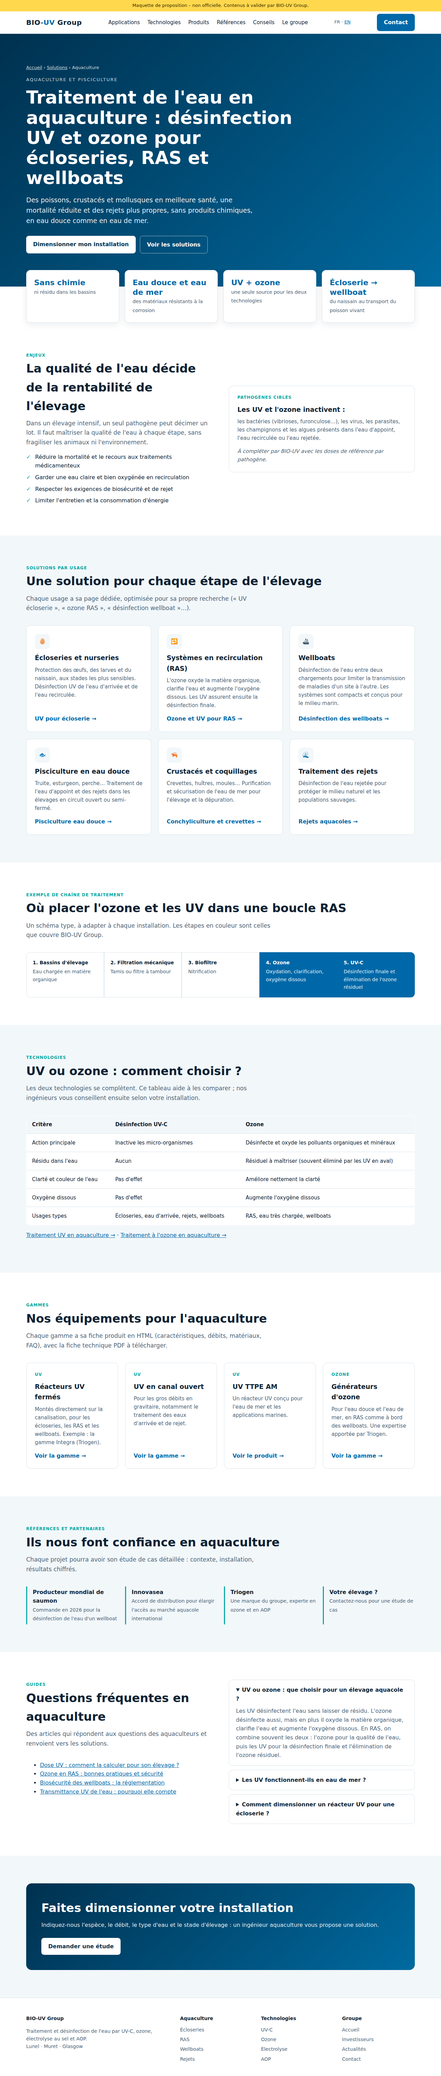
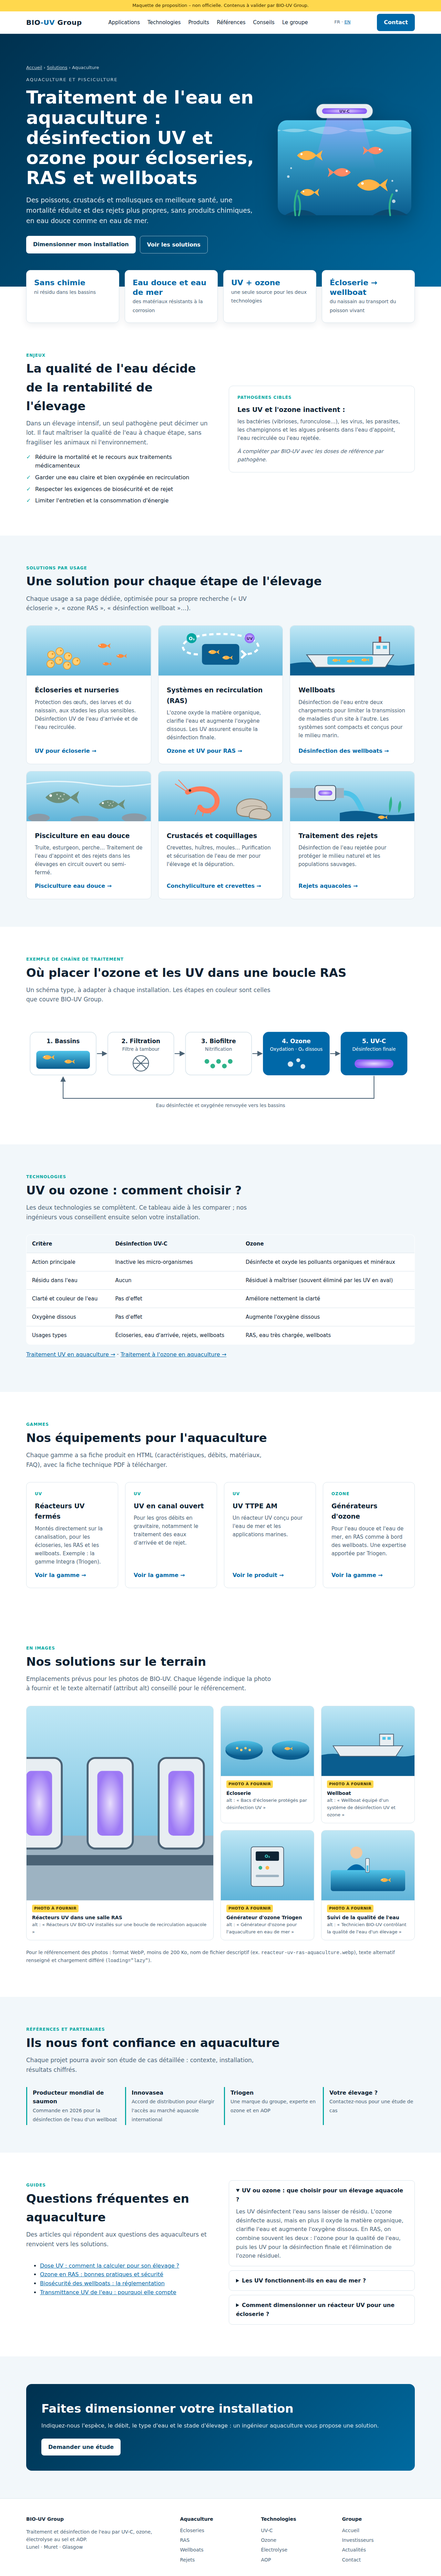
Add aquaculture illustrations, RAS diagram and photo placeholders to BIO-UV mockup
Claude-Session: https://claude.ai/code/session_01VvC67jKEJB5b4yxnGfWvWf

Changed region(s): [[0.0, 0.0, 1.0, 0.9952], [0.5312, 0.5287, 0.7188, 0.5909], [0.75, 0.5598, 0.875, 0.622]]

diff --git a/proposals/bio-uv/aquaculture.html b/proposals/bio-uv/aquaculture.html
@@ -124,6 +124,33 @@ footer a{color:var(--muted);text-decoration:none}
 </style>
 <style>
 .stat b{font-size:22px;line-height:1.25}
+
+.hero-grid{display:grid;grid-template-columns:1.25fr .75fr;gap:40px;align-items:center}
+.hero-ill{width:100%;max-width:420px;justify-self:end;filter:drop-shadow(0 18px 30px rgba(0,0,0,.25))}
+.ill{display:block;width:calc(100% + 48px);height:auto;margin:-24px -24px 16px;border-radius:12px 12px 0 0;border-bottom:1px solid var(--line)}
+.ras-svg{width:100%;height:auto;display:block;margin-bottom:8px}
+.ras-svg text{font:600 15px system-ui,sans-serif;fill:var(--ink)}
+.ras-svg .sub{font:400 12px system-ui,sans-serif;fill:var(--muted)}
+.ras-svg .node{fill:var(--card);stroke:var(--line);stroke-width:1.5}
+.ras-svg .node.hl{fill:var(--brand);stroke:var(--brand)}
+.ras-svg .hl-t{fill:var(--brand-ink)}
+.ras-svg .arrow{stroke:var(--muted);stroke-width:2;fill:none}
+.flow.mob{display:none}
+.gallery{display:grid;grid-template-columns:2fr 1fr 1fr;gap:20px}
+.gallery figure{margin:0;background:var(--card);border:1px solid var(--line);border-radius:12px;overflow:hidden;display:flex;flex-direction:column}
+.gallery figure.big{grid-row:span 2}
+.gallery svg{width:100%;height:auto;aspect-ratio:4/3;display:block}
+.gallery figure.big svg{flex:1;aspect-ratio:auto;min-height:240px}
+.gallery figcaption{padding:12px 16px;font-size:13px;color:var(--muted);border-top:1px solid var(--line)}
+.gallery figcaption b{color:var(--ink);display:block;font-size:14px}
+.ph{display:inline-block;font-size:11px;font-weight:700;letter-spacing:.5px;text-transform:uppercase;background:#ffd84d;color:#3a2e00;border-radius:4px;padding:2px 6px;margin-bottom:4px}
+.seo-img{margin-top:24px;font-size:14px;color:var(--muted)}
+@media (max-width:900px){
+  .hero-grid{grid-template-columns:1fr}.hero-ill{justify-self:center;max-width:340px}
+  .ras-svg{display:none}.flow.mob{display:grid}
+  .gallery{grid-template-columns:1fr 1fr}.gallery figure.big{grid-column:span 2;grid-row:auto}
+}
+@media (max-width:560px){.gallery{grid-template-columns:1fr}.gallery figure.big{grid-column:auto}}
 .crumbs{font-size:13px;opacity:.8;margin-bottom:14px}
 .crumbs a{color:#fff}
 .flow{display:grid;grid-template-columns:repeat(5,1fr);gap:0;counter-reset:s}
@@ -144,6 +171,16 @@ th{background:var(--bg-alt)}
 </style>
 </head>
 <body>
+<svg width="0" height="0" style="position:absolute" aria-hidden="true">
+  <defs>
+    <symbol id="fish" viewBox="0 0 64 32"><path d="M4 16 C16 2 36 2 48 16 C36 30 16 30 4 16Z"/><path d="M46 16 L62 4 L58 16 L62 28Z"/><circle cx="14" cy="13" r="2.4" fill="#fff"/></symbol>
+    <symbol id="trout" viewBox="0 0 64 32"><path d="M4 16 C16 3 36 3 48 16 C36 29 16 29 4 16Z"/><path d="M46 16 L62 5 L58 16 L62 27Z"/><circle cx="13" cy="13" r="2.2" fill="#fff"/><g fill="#fff" opacity=".55"><circle cx="24" cy="11" r="1.3"/><circle cx="30" cy="14" r="1.3"/><circle cx="36" cy="11" r="1.3"/><circle cx="27" cy="18" r="1.3"/><circle cx="34" cy="19" r="1.3"/></g></symbol>
+    <linearGradient id="water" x1="0" y1="0" x2="0" y2="1"><stop offset="0" stop-color="#4fc3e8"/><stop offset="1" stop-color="#0a5d8f"/></linearGradient>
+    <linearGradient id="sea" x1="0" y1="0" x2="0" y2="1"><stop offset="0" stop-color="#bfe7f5"/><stop offset="1" stop-color="#5fb4d9"/></linearGradient>
+    <linearGradient id="uvglow" x1="0" y1="0" x2="0" y2="1"><stop offset="0" stop-color="#b78cff" stop-opacity=".9"/><stop offset="1" stop-color="#b78cff" stop-opacity="0"/></linearGradient>
+    <radialGradient id="uvdot"><stop offset="0" stop-color="#e7d9ff"/><stop offset="1" stop-color="#8a5cf6"/></radialGradient>
+  </defs>
+</svg>
 <div class="mock">Maquette de proposition – non officielle. Contenus à valider par BIO-UV Group.</div>
 
 <header class="top">
@@ -166,7 +203,8 @@ th{background:var(--bg-alt)}
 
 <main>
   <section class="hero" aria-labelledby="h1">
-    <div class="wrap">
+    <div class="wrap hero-grid">
+      <div>
       <nav class="crumbs" aria-label="Fil d'Ariane"><a href="index.html">Accueil</a> › <a href="index.html#applications">Solutions</a> › Aquaculture</nav>
       <div class="eyebrow">Aquaculture et pisciculture</div>
       <h1 id="h1">Traitement de l'eau en aquaculture : désinfection UV et ozone pour écloseries, RAS et wellboats</h1>
@@ -175,6 +213,20 @@ th{background:var(--bg-alt)}
         <a class="btn" href="#contact" style="background:#fff;color:#00314f">Dimensionner mon installation</a>
         <a class="btn ghost" href="#usages">Voir les solutions</a>
       </div>
+      </div>
+      <svg class="hero-ill" viewBox="0 0 400 340" role="img" aria-label="Illustration : bassin d'élevage aquacole avec poissons, traité par un réacteur UV">
+  <rect x="10" y="60" width="380" height="270" rx="26" fill="url(#water)"/>
+  <path d="M10 92 Q57 76 105 92 T200 92 T295 92 T390 92 V86 Q342 70 295 86 T200 86 T105 86 T10 86Z" fill="#fff" opacity=".35"/>
+  <rect x="120" y="14" width="160" height="40" rx="20" fill="#e8eef2" stroke="#9db3c2"/>
+  <rect x="136" y="26" width="128" height="16" rx="8" fill="url(#uvdot)"/>
+  <text x="200" y="38" text-anchor="middle" font-family="system-ui" font-size="11" font-weight="700" fill="#2b0f66">UV-C</text>
+  <path d="M150 54 L110 200 L290 200 L250 54Z" fill="url(#uvglow)" opacity=".55"/>
+  <g fill="#ffb347"><use href="#fish" x="60" y="140" width="80" height="40"/><use href="#fish" x="230" y="220" width="96" height="48"/><use href="#fish" x="70" y="250" width="60" height="30"/></g>
+  <g fill="#ff8a65"><use href="#fish" x="250" y="130" width="64" height="32" transform="scale(-1 1) translate(-564 0)"/><use href="#fish" x="150" y="190" width="72" height="36" transform="scale(-1 1) translate(-372 0)"/></g>
+  <g fill="#fff" opacity=".7"><circle cx="340" cy="290" r="5"/><circle cx="348" cy="260" r="3.5"/><circle cx="336" cy="232" r="2.5"/><circle cx="40" cy="220" r="3.5"/><circle cx="48" cy="196" r="2.5"/></g>
+  <path d="M30 330 Q80 300 120 330Z M280 330 Q330 296 380 330Z" fill="#0b4a70"/>
+  <path d="M60 330 q-6 -40 6 -70 M70 330 q8 -30 -2 -55 M330 330 q-6 -36 6 -60" stroke="#2fb38a" stroke-width="5" fill="none" stroke-linecap="round"/>
+</svg>
     </div>
   </section>
 
@@ -214,37 +266,37 @@ th{background:var(--bg-alt)}
       <p class="lead">Chaque usage a sa page dédiée, optimisée pour sa propre recherche (« UV écloserie », « ozone RAS », « désinfection wellboat »…).</p>
       <div class="grid g3">
         <article class="card">
-          <div class="ico" aria-hidden="true">🥚</div>
+          <svg class="ill" viewBox="0 0 300 120" role="img" aria-label="Illustration : œufs et larves en écloserie"><rect width="300" height="120" fill="url(#sea)"/><g fill="#ffcf73" stroke="#e59a2c" stroke-width="1.5"><circle cx="60" cy="70" r="9"/><circle cx="80" cy="62" r="9"/><circle cx="78" cy="84" r="9"/><circle cx="100" cy="74" r="9"/><circle cx="98" cy="96" r="9"/><circle cx="120" cy="86" r="9"/><circle cx="58" cy="92" r="9"/></g><g fill="#e59a2c"><circle cx="63" cy="68" r="2.2"/><circle cx="83" cy="60" r="2.2"/><circle cx="81" cy="82" r="2.2"/><circle cx="103" cy="72" r="2.2"/><circle cx="101" cy="94" r="2.2"/><circle cx="123" cy="84" r="2.2"/><circle cx="61" cy="90" r="2.2"/></g><g fill="#ff8a3d"><use href="#fish" x="170" y="40" width="34" height="17"/><use href="#fish" x="215" y="66" width="28" height="14"/><use href="#fish" x="182" y="86" width="24" height="12"/></g></svg>
           <h3>Écloseries et nurseries</h3>
           <p>Protection des œufs, des larves et du naissain, aux stades les plus sensibles. Désinfection UV de l'eau d'arrivée et de l'eau recirculée.</p>
           <a class="more" href="#">UV pour écloserie →</a>
         </article>
         <article class="card">
-          <div class="ico" aria-hidden="true">🔁</div>
+          <svg class="ill" viewBox="0 0 300 120" role="img" aria-label="Illustration : boucle de recirculation de l'eau (RAS)"><rect width="300" height="120" fill="url(#sea)"/><rect x="105" y="44" width="90" height="50" rx="8" fill="#0a5d8f"/><g fill="#ffb347"><use href="#fish" x="118" y="56" width="30" height="15"/><use href="#fish" x="152" y="70" width="28" height="14"/></g><path d="M95 69 C40 69 40 20 150 20 C260 20 260 69 205 69" stroke="#fff" stroke-width="5" fill="none" stroke-dasharray="10 7"/><path d="M200 60 L210 69 L200 78" stroke="#fff" stroke-width="5" fill="none"/><circle cx="80" cy="30" r="12" fill="#00a6a0"/><text x="80" y="35" text-anchor="middle" font-size="11" font-weight="700" fill="#fff" font-family="system-ui">O₃</text><circle cx="220" cy="30" r="12" fill="url(#uvdot)"/><text x="220" y="34" text-anchor="middle" font-size="9" font-weight="700" fill="#2b0f66" font-family="system-ui">UV</text></svg>
           <h3>Systèmes en recirculation (RAS)</h3>
           <p>L'ozone oxyde la matière organique, clarifie l'eau et augmente l'oxygène dissous. Les UV assurent ensuite la désinfection finale.</p>
           <a class="more" href="#">Ozone et UV pour RAS →</a>
         </article>
         <article class="card">
-          <div class="ico" aria-hidden="true">🚢</div>
+          <svg class="ill" viewBox="0 0 300 120" role="img" aria-label="Illustration : wellboat transportant des poissons vivants"><rect width="300" height="120" fill="url(#sea)"/><path d="M0 92 Q37 84 75 92 T150 92 T225 92 T300 92 V120 H0Z" fill="#0a5d8f"/><path d="M40 70 H250 L230 100 H62Z" fill="#e8eef2" stroke="#4a6275" stroke-width="2"/><rect x="90" y="74" width="110" height="20" rx="4" fill="#4fc3e8"/><g fill="#ffb347"><use href="#fish" x="100" y="78" width="22" height="11"/><use href="#fish" x="135" y="80" width="22" height="11"/><use href="#fish" x="170" y="77" width="22" height="11"/></g><rect x="200" y="40" width="40" height="30" fill="#e8eef2" stroke="#4a6275" stroke-width="2"/><rect x="208" y="48" width="10" height="8" fill="#4fc3e8"/><rect x="224" y="48" width="10" height="8" fill="#4fc3e8"/><rect x="214" y="26" width="6" height="14" fill="#c0392b"/></svg>
           <h3>Wellboats</h3>
           <p>Désinfection de l'eau entre deux chargements pour limiter la transmission de maladies d'un site à l'autre. Les systèmes sont compacts et conçus pour le milieu marin.</p>
           <a class="more" href="#">Désinfection des wellboats →</a>
         </article>
         <article class="card">
-          <div class="ico" aria-hidden="true">🐟</div>
+          <svg class="ill" viewBox="0 0 300 120" role="img" aria-label="Illustration : truites dans une rivière d'eau douce"><rect width="300" height="120" fill="url(#sea)"/><path d="M0 30 Q75 18 150 30 T300 30" stroke="#fff" stroke-width="3" fill="none" opacity=".7"/><g fill="#6d8f7a"><use href="#trout" x="40" y="40" width="90" height="45"/><use href="#trout" x="170" y="62" width="70" height="35"/></g><g fill="#8a9aa6"><ellipse cx="30" cy="112" rx="26" ry="10"/><ellipse cx="140" cy="116" rx="34" ry="9"/><ellipse cx="260" cy="112" rx="30" ry="11"/></g></svg>
           <h3>Pisciculture en eau douce</h3>
           <p>Truite, esturgeon, perche… Traitement de l'eau d'appoint et des rejets dans les élevages en circuit ouvert ou semi-fermé.</p>
           <a class="more" href="#">Pisciculture eau douce →</a>
         </article>
         <article class="card">
-          <div class="ico" aria-hidden="true">🦐</div>
+          <svg class="ill" viewBox="0 0 300 120" role="img" aria-label="Illustration : crevette et huîtres en eau de mer"><rect width="300" height="120" fill="url(#sea)"/><g fill="none" stroke="#ff7a59" stroke-width="12" stroke-linecap="round"><path d="M70 50 C110 30 150 50 140 80 C132 100 105 98 100 86"/></g><g stroke="#ff7a59" stroke-width="2"><path d="M70 50 L40 30 M72 46 L48 20"/><path d="M95 88 L88 104 M110 92 L106 108 M125 88 L126 104"/></g><circle cx="76" cy="46" r="3" fill="#333"/><g fill="#cfc6b8" stroke="#8b7f6e" stroke-width="2"><path d="M190 100 C180 70 220 58 250 72 C272 84 262 106 230 108 C210 110 194 108 190 100Z"/><path d="M220 112 C214 92 240 84 262 94 C278 102 272 116 250 116Z"/></g><path d="M200 90 Q225 78 250 86" stroke="#8b7f6e" fill="none"/></svg>
           <h3>Crustacés et coquillages</h3>
           <p>Crevettes, huîtres, moules… Purification et sécurisation de l'eau de mer pour l'élevage et la dépuration.</p>
           <a class="more" href="#">Conchyliculture et crevettes →</a>
         </article>
         <article class="card">
-          <div class="ico" aria-hidden="true">🌊</div>
+          <svg class="ill" viewBox="0 0 300 120" role="img" aria-label="Illustration : eau rejetée désinfectée par UV avant retour au milieu naturel"><rect width="300" height="120" fill="url(#sea)"/><rect x="0" y="40" width="130" height="24" fill="#9db3c2"/><rect x="60" y="34" width="50" height="36" rx="6" fill="#e8eef2" stroke="#4a6275" stroke-width="2"/><rect x="68" y="46" width="34" height="12" rx="6" fill="url(#uvdot)"/><path d="M130 52 C160 52 165 80 175 96" stroke="#4fc3e8" stroke-width="12" fill="none"/><path d="M120 100 Q160 90 200 100 T300 100 V120 H120Z" fill="#0a5d8f"/><g fill="#2fb38a"><path d="M240 100 q-4 -24 4 -40 q6 18 -4 40Z"/><path d="M262 100 q-4 -18 4 -30 q6 14 -4 30Z"/></g><g fill="#ffb347"><use href="#fish" x="210" y="104" width="26" height="13"/></g></svg>
           <h3>Traitement des rejets</h3>
           <p>Désinfection de l'eau rejetée pour protéger le milieu naturel et les populations sauvages.</p>
           <a class="more" href="#">Rejets aquacoles →</a>
@@ -258,7 +310,23 @@ th{background:var(--bg-alt)}
       <span class="tag">Exemple de chaîne de traitement</span>
       <h2 id="h-ras">Où placer l'ozone et les UV dans une boucle RAS</h2>
       <p class="lead">Un schéma type, à adapter à chaque installation. Les étapes en couleur sont celles que couvre BIO-UV Group.</p>
-      <div class="flow">
+      <svg class="ras-svg" viewBox="0 0 1000 250" role="img" aria-label="Schéma d'une boucle RAS : bassins, filtration mécanique, biofiltre, ozone, UV-C, retour aux bassins">
+  <defs><marker id="ah" viewBox="0 0 10 10" refX="8" refY="5" markerWidth="7" markerHeight="7" orient="auto"><path d="M0 0 L10 5 L0 10Z" fill="var(--muted)"/></marker></defs>
+  <rect class="node" x="10" y="40" width="170" height="110" rx="14"/>
+  <rect x="26" y="88" width="138" height="46" rx="8" fill="url(#water)"/><g fill="#ffb347"><use href="#fish" x="40" y="96" width="34" height="17"/><use href="#fish" x="96" y="108" width="30" height="15"/></g>
+  <text x="95" y="68" text-anchor="middle">1. Bassins</text>
+  <rect class="node" x="210" y="40" width="170" height="110" rx="14"/><text x="295" y="68" text-anchor="middle">2. Filtration</text><text class="sub" x="295" y="88" text-anchor="middle">Filtre à tambour</text>
+  <g stroke="var(--muted)" stroke-width="2" fill="none"><circle cx="295" cy="120" r="20"/><path d="M281 106 L309 134 M309 106 L281 134 M275 120 H315"/></g>
+  <rect class="node" x="410" y="40" width="170" height="110" rx="14"/><text x="495" y="68" text-anchor="middle">3. Biofiltre</text><text class="sub" x="495" y="88" text-anchor="middle">Nitrification</text>
+  <g fill="#2fb38a"><circle cx="465" cy="115" r="6"/><circle cx="480" cy="127" r="6"/><circle cx="495" cy="115" r="6"/><circle cx="510" cy="127" r="6"/><circle cx="525" cy="115" r="6"/></g>
+  <rect class="node hl" x="610" y="40" width="170" height="110" rx="14"/><text class="hl-t" x="695" y="68" text-anchor="middle">4. Ozone</text><text class="sub hl-t" x="695" y="88" text-anchor="middle">Oxydation · O₂ dissous</text>
+  <g fill="#fff" opacity=".85"><circle cx="680" cy="122" r="7"/><circle cx="700" cy="112" r="5"/><circle cx="712" cy="128" r="6"/></g>
+  <rect class="node hl" x="810" y="40" width="170" height="110" rx="14"/><text class="hl-t" x="895" y="68" text-anchor="middle">5. UV-C</text><text class="sub hl-t" x="895" y="88" text-anchor="middle">Désinfection finale</text>
+  <rect x="845" y="110" width="100" height="22" rx="11" fill="url(#uvdot)"/>
+  <g class="arrow" marker-end="url(#ah)"><path d="M182 95 H206"/><path d="M382 95 H406"/><path d="M582 95 H606"/><path d="M782 95 H806"/><path d="M895 152 V210 H95 V156"/></g>
+  <text class="sub" x="500" y="232" text-anchor="middle">Eau désinfectée et oxygénée renvoyée vers les bassins</text>
+</svg>
+      <div class="flow mob">
         <div class="step"><b>1. Bassins d'élevage</b><span>Eau chargée en matière organique</span></div>
         <div class="step"><b>2. Filtration mécanique</b><span>Tamis ou filtre à tambour</span></div>
         <div class="step"><b>3. Biofiltre</b><span>Nitrification</span></div>
@@ -300,6 +368,33 @@ th{background:var(--bg-alt)}
         <article class="card"><span class="tag">UV</span><h3>UV TTPE AM</h3><p>Un réacteur UV conçu pour l'eau de mer et les applications marines.</p><a class="more" href="#">Voir le produit →</a></article>
         <article class="card"><span class="tag">Ozone</span><h3>Générateurs d'ozone</h3><p>Pour l'eau douce et l'eau de mer, en RAS comme à bord des wellboats. Une expertise apportée par Triogen.</p><a class="more" href="#">Voir la gamme →</a></article>
       </div>
+    </div>
+  </section>
+
+
+  <section id="galerie" aria-labelledby="h-gal">
+    <div class="wrap">
+      <span class="tag">En images</span>
+      <h2 id="h-gal">Nos solutions sur le terrain</h2>
+      <p class="lead">Emplacements prévus pour les photos de BIO-UV. Chaque légende indique la photo à fournir et le texte alternatif (attribut alt) conseillé pour le référencement.</p>
+      <div class="gallery">
+        <figure class="big"><svg viewBox="0 0 400 300" preserveAspectRatio="xMidYMid slice" role="img" aria-label="Emplacement photo : réacteurs UV installés dans un élevage en recirculation"><rect width="400" height="300" fill="url(#sea)"/><rect x="0" y="200" width="400" height="100" fill="#9db3c2"/><g><rect x="40" y="80" width="70" height="140" rx="12" fill="#e8eef2" stroke="#4a6275" stroke-width="3"/><rect x="55" y="100" width="40" height="100" rx="8" fill="url(#uvdot)" opacity=".8"/></g><g><rect x="150" y="80" width="70" height="140" rx="12" fill="#e8eef2" stroke="#4a6275" stroke-width="3"/><rect x="165" y="100" width="40" height="100" rx="8" fill="url(#uvdot)" opacity=".8"/></g><g><rect x="260" y="80" width="70" height="140" rx="12" fill="#e8eef2" stroke="#4a6275" stroke-width="3"/><rect x="275" y="100" width="40" height="100" rx="8" fill="url(#uvdot)" opacity=".8"/></g><rect x="0" y="230" width="400" height="16" fill="#4a6275"/></svg>
+          <figcaption><span class="ph">Photo à fournir</span><b>Réacteurs UV dans une salle RAS</b>alt : « Réacteurs UV BIO-UV installés sur une boucle de recirculation aquacole »</figcaption>
+        </figure>
+        <figure><svg viewBox="0 0 400 300" preserveAspectRatio="xMidYMid slice" role="img" aria-label="Emplacement photo : bacs d'écloserie"><rect width="400" height="300" fill="url(#sea)"/><ellipse cx="100" cy="190" rx="80" ry="40" fill="#0a5d8f"/><ellipse cx="100" cy="182" rx="80" ry="34" fill="url(#water)"/><ellipse cx="300" cy="190" rx="80" ry="40" fill="#0a5d8f"/><ellipse cx="300" cy="182" rx="80" ry="34" fill="url(#water)"/><g fill="#ffcf73"><circle cx="70" cy="180" r="5"/><circle cx="88" cy="188" r="5"/><circle cx="106" cy="180" r="5"/><circle cx="124" cy="188" r="5"/></g><g fill="#ffb347"><use href="#fish" x="270" y="172" width="40" height="20"/></g></svg>
+          <figcaption><span class="ph">Photo à fournir</span><b>Écloserie</b>alt : « Bacs d'écloserie protégés par désinfection UV »</figcaption>
+        </figure>
+        <figure><svg viewBox="0 0 400 300" preserveAspectRatio="xMidYMid slice" role="img" aria-label="Emplacement photo : wellboat en mer"><rect width="400" height="300" fill="url(#sea)"/><path d="M0 210 Q50 198 100 210 T200 210 T300 210 T400 210 V300 H0Z" fill="#0a5d8f"/><path d="M50 170 H350 L320 215 H80Z" fill="#e8eef2" stroke="#4a6275" stroke-width="3"/><rect x="250" y="120" width="60" height="50" fill="#e8eef2" stroke="#4a6275" stroke-width="3"/><rect x="262" y="132" width="14" height="12" fill="#4fc3e8"/><rect x="284" y="132" width="14" height="12" fill="#4fc3e8"/></svg>
+          <figcaption><span class="ph">Photo à fournir</span><b>Wellboat</b>alt : « Wellboat équipé d'un système de désinfection UV et ozone »</figcaption>
+        </figure>
+        <figure><svg viewBox="0 0 400 300" preserveAspectRatio="xMidYMid slice" role="img" aria-label="Emplacement photo : générateur d'ozone"><rect width="400" height="300" fill="url(#sea)"/><rect x="130" y="70" width="140" height="170" rx="10" fill="#e8eef2" stroke="#4a6275" stroke-width="3"/><rect x="150" y="90" width="100" height="40" rx="6" fill="#0d2233"/><text x="200" y="117" text-anchor="middle" font-family="system-ui" font-size="18" font-weight="700" fill="#3fd0c9">O₃</text><circle cx="170" cy="160" r="8" fill="#2fb38a"/><circle cx="200" cy="160" r="8" fill="#ffb347"/><rect x="150" y="190" width="100" height="10" rx="5" fill="#9db3c2"/></svg>
+          <figcaption><span class="ph">Photo à fournir</span><b>Générateur d'ozone Triogen</b>alt : « Générateur d'ozone pour l'aquaculture en eau de mer »</figcaption>
+        </figure>
+        <figure><svg viewBox="0 0 400 300" preserveAspectRatio="xMidYMid slice" role="img" aria-label="Emplacement photo : technicien contrôlant la qualité de l'eau"><rect width="400" height="300" fill="url(#sea)"/><rect x="40" y="170" width="320" height="90" rx="10" fill="url(#water)"/><circle cx="150" cy="95" r="26" fill="#f2c9a0"/><path d="M110 170 Q150 120 190 170Z" fill="#0068a8"/><rect x="190" y="120" width="16" height="60" rx="4" fill="#e8eef2" stroke="#4a6275" stroke-width="2"/><rect x="194" y="150" width="8" height="26" fill="#4fc3e8"/><g fill="#ffb347"><use href="#fish" x="250" y="200" width="50" height="25"/></g></svg>
+          <figcaption><span class="ph">Photo à fournir</span><b>Suivi de la qualité de l'eau</b>alt : « Technicien BIO-UV contrôlant la qualité de l'eau d'un élevage »</figcaption>
+        </figure>
+      </div>
+      <p class="seo-img">Pour le référencement des photos : format WebP, moins de 200 Ko, nom de fichier descriptif (ex. <code>reacteur-uv-ras-aquaculture.webp</code>), texte alternatif renseigné et chargement différé (<code>loading="lazy"</code>).</p>
     </div>
   </section>
 
